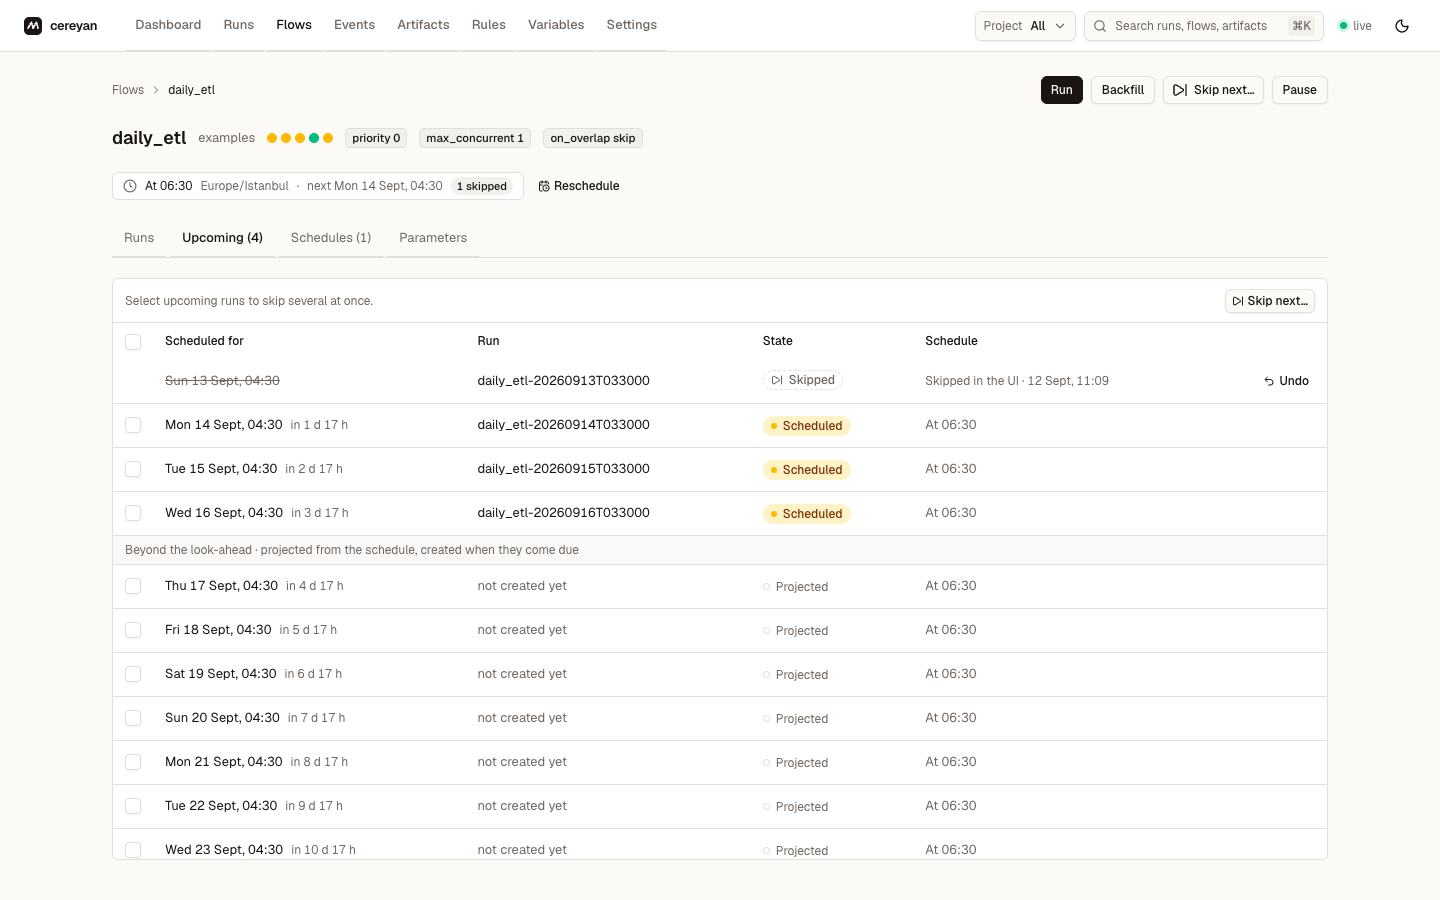
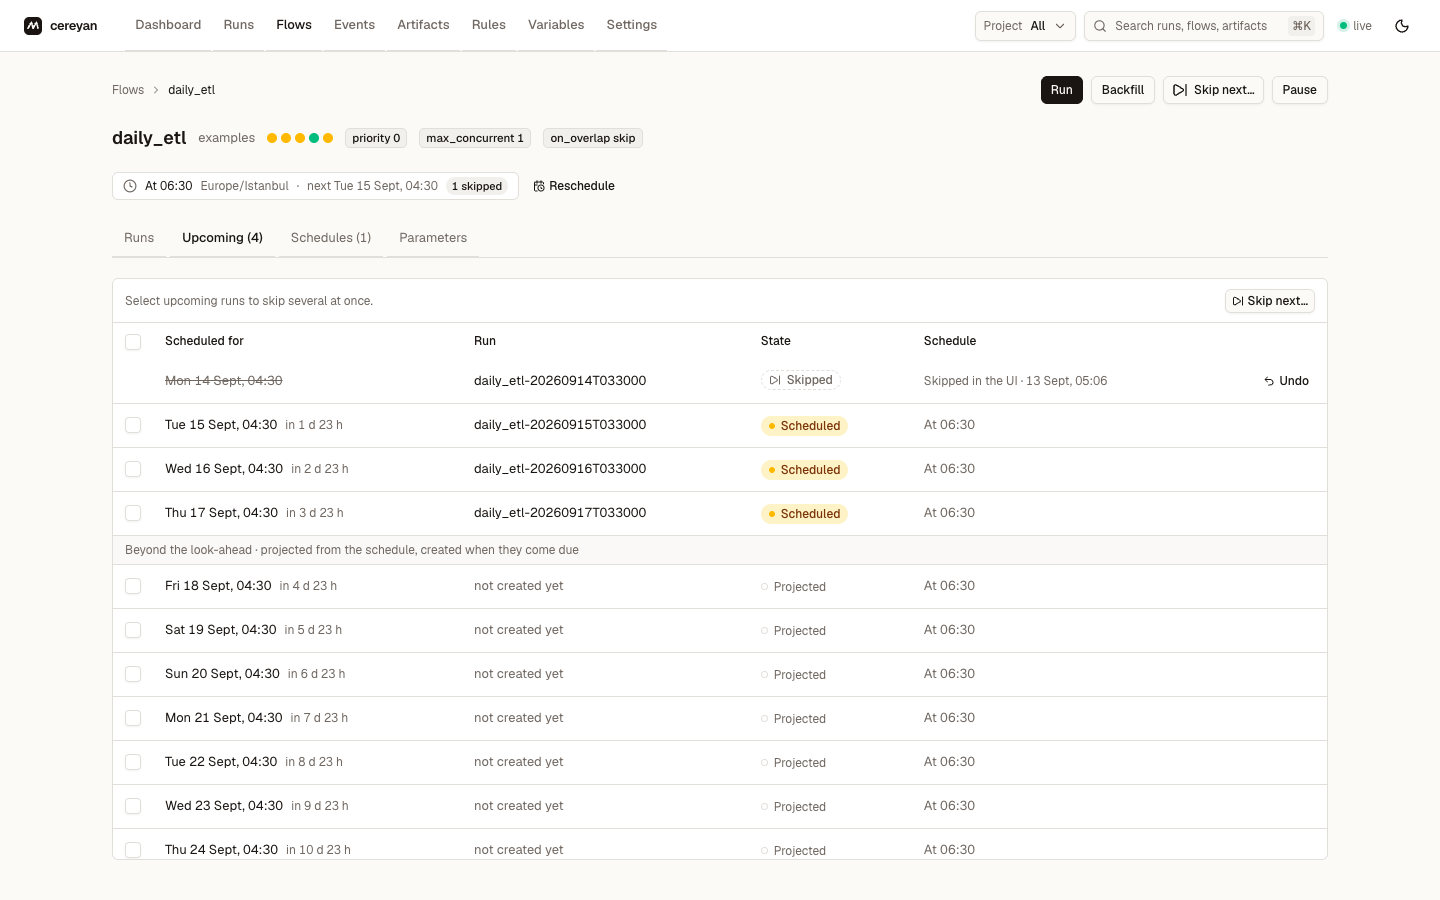
Update docs and screenshots for skipping and rescheduling
Claude-Session: https://claude.ai/code/session_01TcVZB6oEnyCjHL46SASZcJ

diff --git a/docs/guides/schedule-a-flow.md b/docs/guides/schedule-a-flow.md
@@ -49,7 +49,11 @@ Pause from the flow page, `POST /api/schedules/{id}/pause`, the MCP `pause_sched
 
 ## Skip a run
 
-To stop one run without pausing the schedule, open the flow's menu on the Flows page: **Skip next run** skips the next fire, and **Skip runs…** opens a checklist of upcoming fires filled by a *Skip the next N* stepper or an *Until a time* field. The flow page's **Upcoming** tab does the same row by row or for several rows at once, and lists fires past the materialised runs as projected so you can skip one days ahead. A skipped fire ends `Skipped` at its time without starting, and so do the runs of the flows declared `after=` it; **Undo** takes a skip back until its time. See [Skipping fires](../concepts/schedules.md#skipping-fires).
+To stop one run without pausing the schedule, open the flow's menu on the Flows page: **Skip next run** skips the next fire, and **Skip runs…** opens a checklist of upcoming fires filled by a *Skip the next N* stepper or an *Until a time* field, with the time the schedule resumes and the flows after this one that are skipped too.
+
+![The Skip upcoming runs dialog for daily_etl: the schedule, the Next runs and Until a time modes, a stepper set to the next three runs, a checklist of upcoming fires with one already skipped and three ticked, and the time the schedule resumes](../images/skip-dialog.png)
+
+The flow page's **Upcoming** tab does the same row by row, for several rows at once, or for all of them with the header checkbox, and lists fires past the materialised runs as projected so you can skip one days ahead. A skipped fire shows who skipped it and when; at its time it ends `Skipped` without starting, and so do the runs of the flows declared `after=` it. **Undo** takes a skip back until its time. See [Skipping fires](../concepts/schedules.md#skipping-fires).
 
 ## Inspect through the API
 
@@ -63,6 +67,10 @@ assert len(upcoming) >= 1
 
 ## Edit at runtime
 
-**Reschedule…**, in the Flows page menu and beside the schedule summary on the flow page, edits a cron schedule as a daily, weekly, or monthly time in a timezone, or as raw cron, with its catch-up options, and shows the coming week before and after the change with what saving replaces and the skips it would drop. Interval and RRule schedules open in the Schedules tab's editor, which previews the next fire times (`POST /api/schedules/preview`). An edit to a code-declared schedule lasts until the next restart re-applies the declaration, unless the request sets `persist: true`.
+**Reschedule…**, in the Flows page menu and beside the schedule summary on the flow page, edits a cron schedule as a daily, weekly, or monthly time in a timezone, or as raw cron, with its catch-up options, and shows the coming week before and after the change with what saving replaces and the skips it would drop.
+
+![The Reschedule dialog for daily_etl: the note that the schedule is declared in code, Repeats set to Daily with the time moved to 07:30 and the timezone beside it, the cron it produces, the week's current fires against the new ones with the skipped fire marked, and what saving replaces and drops](../images/reschedule-dialog.png)
+
+Interval and RRule schedules open in the Schedules tab's editor, which previews the next fire times (`POST /api/schedules/preview`). An edit to a code-declared schedule lasts until the next restart re-applies the declaration, unless the request sets `persist: true`.
 
 Related: [Schedules](../concepts/schedules.md), [Backfill a date range](backfill.md).

diff --git a/README.md b/README.md
@@ -56,8 +56,8 @@ Every page below is described in the [tour](https://sercanatalik.github.io/cerey
 |:--:|:--:|
 | [![Runs list in collapsible groups, each header rolling up its runs' states, over rows with popover filters and a task-state bar per run](https://raw.githubusercontent.com/sercanatalik/cereyan/main/docs/images/runs.png)](https://sercanatalik.github.io/cereyan/get-started/tour/#runs) | [![Run detail: the tasks rail, live logs filtered to one task run, and retry countdowns](https://raw.githubusercontent.com/sercanatalik/cereyan/main/docs/images/run-detail.png)](https://sercanatalik.github.io/cereyan/get-started/tour/#run-detail) |
 | **[Runs](https://sercanatalik.github.io/cereyan/get-started/tour/#runs)** &mdash; group, filter, select and act in bulk | **[Run detail](https://sercanatalik.github.io/cereyan/get-started/tour/#run-detail)** &mdash; logs, tasks and retries |
-| [![Flows in collapsible groups, each header rolling up the next fire, recent runs, last-run states and tags of the flows beneath it, over rows with schedules in words and a run-history sparkline](https://raw.githubusercontent.com/sercanatalik/cereyan/main/docs/images/flows.png)](https://sercanatalik.github.io/cereyan/get-started/tour/#flows) | [![Task timeline: an SVG graph of task runs with dependencies and a selection panel](https://raw.githubusercontent.com/sercanatalik/cereyan/main/docs/images/run-timeline.png)](https://sercanatalik.github.io/cereyan/get-started/tour/#run-detail) |
-| **[Flows](https://sercanatalik.github.io/cereyan/get-started/tour/#flows)** &mdash; groups, schedules, dependencies, history | **[Timeline](https://sercanatalik.github.io/cereyan/get-started/tour/#run-detail)** &mdash; the task graph of a run |
+| [![Flows in collapsible groups under a Dependencies panel, a scheduled flow's row menu open on Skip next run, Skip runs and Reschedule, over rows with schedules in words, a skipped count and a run-history sparkline](https://raw.githubusercontent.com/sercanatalik/cereyan/main/docs/images/flows.png)](https://sercanatalik.github.io/cereyan/get-started/tour/#flows) | [![Task timeline: an SVG graph of task runs with dependencies and a selection panel](https://raw.githubusercontent.com/sercanatalik/cereyan/main/docs/images/run-timeline.png)](https://sercanatalik.github.io/cereyan/get-started/tour/#run-detail) |
+| **[Flows](https://sercanatalik.github.io/cereyan/get-started/tour/#flows)** &mdash; groups, schedules, skips, dependencies, history | **[Timeline](https://sercanatalik.github.io/cereyan/get-started/tour/#run-detail)** &mdash; the task graph of a run |
 | [![Events page with the live feed and a JSON payload viewer](https://raw.githubusercontent.com/sercanatalik/cereyan/main/docs/images/events.png)](https://sercanatalik.github.io/cereyan/get-started/tour/#events) | [![Rules page listing when/do rules and their firing counts](https://raw.githubusercontent.com/sercanatalik/cereyan/main/docs/images/rules.png)](https://sercanatalik.github.io/cereyan/get-started/tour/#rules) |
 | **[Events](https://sercanatalik.github.io/cereyan/get-started/tour/#events)** &mdash; what happened, as it happens | **[Rules](https://sercanatalik.github.io/cereyan/get-started/tour/#rules)** &mdash; react to events, or to their absence |
 

diff --git a/docs/images/README.md b/docs/images/README.md
@@ -4,9 +4,9 @@ Captured by hand from a demo server; there is no automated regeneration.
 
 1. `just demo` starts a server on a temporary home serving `examples/`, at http://127.0.0.1:4200.
 2. Run a few example flows (the Run button on the Flows page, or `python examples/daily_etl.py` in another shell) so the pages have data, including one failed run and one paused run.
-3. Use a 1440x900 browser window and capture each page as PNG named after the page: `dashboard`, `runs`, `run-detail`, `run-timeline`, `flows`, `flow-detail`, `events`, `artifacts`, `rules`, `variables`, `settings`, plus `dashboard-dark` and `run-detail-dark` in the dark theme.
+3. Use a 1440x900 browser window and capture each page as PNG named after the page: `dashboard`, `runs`, `run-detail`, `run-timeline`, `flows`, `flow-detail`, `skip-dialog`, `reschedule-dialog`, `events`, `artifacts`, `rules`, `variables`, `settings`, plus `dashboard-dark` and `run-detail-dark` in the dark theme.
 4. Crop to the browser viewport and keep each file under 300 KB.
 
 Every file here must be referenced from a page (checked in review) with alt text that says what the picture shows.
 
-The current set was captured on the ui-redesign change (2026-09-06) with the top bar shell; `flows.png` and `runs.png` were recaptured on add-flow-groups (2026-09-09) with the collapsible groups, and `flows.png` and `flow-detail.png` again on skip-and-reschedule (2026-09-12): the first with a scheduled flow's row menu open, the second on the Upcoming tab with a skipped fire of `daily_etl` and the projected fires below it. `dashboard-dark.png` and `run-detail-dark.png` show the dark theme; the dark captures come from a browser whose system theme is dark, since the page follows `prefers-color-scheme` until the toggle is used. `artifacts.png` shows the Artifacts page.
+The current set was captured on the ui-redesign change (2026-09-06) with the top bar shell; `flows.png` and `runs.png` were recaptured on add-flow-groups (2026-09-09) with the collapsible groups, and `flows.png` and `flow-detail.png` again on skip-and-reschedule (2026-09-13) beside the new `skip-dialog.png` and `reschedule-dialog.png`: a scheduled flow's row menu open, the Upcoming tab with a skipped fire of `daily_etl` and the projected fires below it, the Skip dialog set to the next three runs, and the Reschedule dialog with the time moved to 07:30. `dashboard-dark.png` and `run-detail-dark.png` show the dark theme; the dark captures come from a browser whose system theme is dark, since the page follows `prefers-color-scheme` until the toggle is used. `artifacts.png` shows the Artifacts page.

diff --git a/docs/get-started/tour.md b/docs/get-started/tour.md
@@ -46,9 +46,9 @@ A group header is the same columns rolled up, so collapsing a group hides the de
 
 ## Flow detail
 
-![Flow detail on the Upcoming tab: a skipped fire struck through with Undo, the materialised runs each with Skip, and fires past the look-ahead listed as projected below a divider, under the schedule summary with its skipped count and the Run, Backfill, Skip next, and Pause actions](../images/flow-detail.png)
+![Flow detail on the Upcoming tab: a skipped fire struck through with a dashed Skipped badge, who skipped it and when, and Undo; the materialised runs with how far off each is; and the fires past the look-ahead listed as projected below a divider, under the schedule summary with its skipped count, Reschedule, and the Run, Backfill, Skip next, and Pause actions](../images/flow-detail.png)
 
-The flow's description (rendered from its docstring), its schedule summary with the next fire that will run and how many are skipped, chips for priority, concurrency cap, and overlap policy, the last ten runs as dots, and **Run**, **Backfill**, **Skip next…**, and **Pause** actions, with **Reschedule** beside the schedule summary. Tabs list the runs; the upcoming runs, each with **Skip** or **Undo**, several skippable at once, and the fires past the look-ahead listed as projected; the schedules with an editor and a preview of upcoming fire times; and the parameter schema.
+The flow's description (rendered from its docstring), its schedule summary with the next fire that will run and how many are skipped, chips for priority, concurrency cap, and overlap policy, the last ten runs as dots, and **Run**, **Backfill**, **Skip next…**, and **Pause** actions, with **Reschedule** beside the schedule summary. Tabs list the runs; the upcoming runs, each with how far off it is and **Skip** or **Undo**, a skipped one saying who skipped it and when, several skippable at once or all from the header checkbox, and the fires past the look-ahead listed as projected, ten more at a time; the schedules with an editor and a preview of upcoming fire times; and the parameter schema.
 
 ## Events
 
